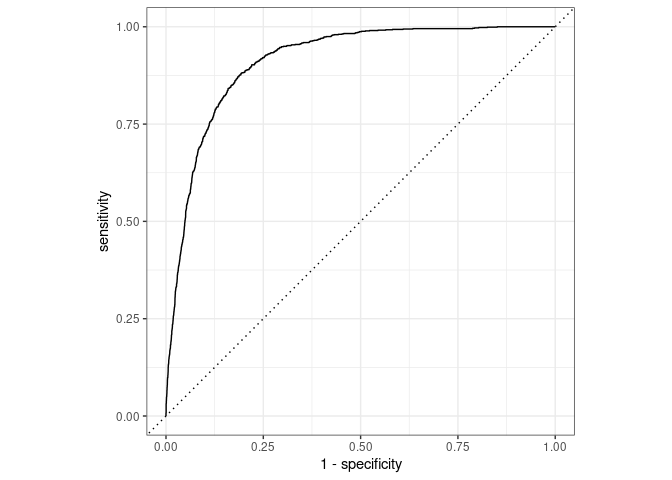
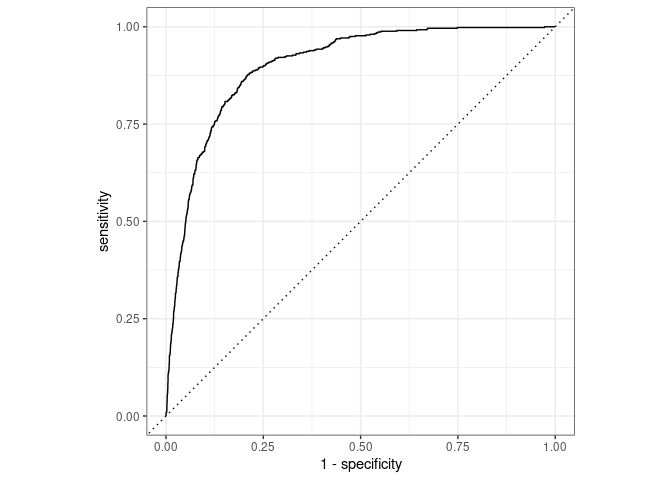
Final Model Fixes

diff --git a/Logistic Model/Logistic_Model.md b/Logistic Model/Logistic_Model.md
@@ -171,30 +171,28 @@ collect_metrics(banking_fit_cross)
     ## 2 roc_auc  binary     0.910    10 0.00145  Preprocessor1_Model1
 
 ``` r
-banking_test_final <- read_csv("/cloud/project/data/banking_test.csv")
+Banking_Test_Final <- read_delim("/cloud/project/data/Banking_Test_Final.csv", 
+    delim = ";", escape_double = FALSE, trim_ws = TRUE)
 ```
 
-    ## New names:
-    ## * `` -> ...1
-
-    ## Rows: 9043 Columns: 18
+    ## Rows: 4521 Columns: 17
 
     ## ── Column specification ────────────────────────────────────────────────────────
-    ## Delimiter: ","
+    ## Delimiter: ";"
     ## chr (10): job, marital, education, default, housing, loan, contact, month, p...
-    ## dbl  (8): ...1, age, balance, day, duration, campaign, pdays, previous
+    ## dbl  (7): age, balance, day, duration, campaign, pdays, previous
 
     ## 
     ## ℹ Use `spec()` to retrieve the full column specification for this data.
     ## ℹ Specify the column types or set `show_col_types = FALSE` to quiet this message.
 
 ``` r
-banking_test_final <- banking_test_final %>%
+Banking_Test_Final <- Banking_Test_Final %>%
   mutate(y = factor(if_else(y == "yes", 1, 0))) #Changed Outcome Variable to Factor Type
   
 
-banking_final_pred <- predict(banking_fit, banking_test_final, type = "prob") %>%
-  bind_cols(banking_test_final %>% select(y))
+banking_final_pred <- predict(banking_fit, Banking_Test_Final, type = "prob") %>%
+  bind_cols(Banking_Test_Final %>% select(y))
 
 banking_final_pred %>%
   roc_curve(
@@ -217,7 +215,7 @@ banking_final_pred %>%
     ## # A tibble: 1 × 3
     ##   .metric .estimator .estimate
     ##   <chr>   <chr>          <dbl>
-    ## 1 roc_auc binary         0.912
+    ## 1 roc_auc binary         0.901
 
 ``` r
 cutoff <- 0.5
@@ -233,7 +231,7 @@ banking_final_pred %>%
 
 |                                   | Client did not Subscribe | Client Subscribed |
 |:----------------------------------|-------------------------:|------------------:|
-| Client Predicted to Not Subscribe |                     7765 |               652 |
-| Client Predicted to Subscribe     |                      244 |               382 |
+| Client Predicted to Not Subscribe |                     3878 |               334 |
+| Client Predicted to Subscribe     |                      122 |               187 |
 
 \`\`\`
